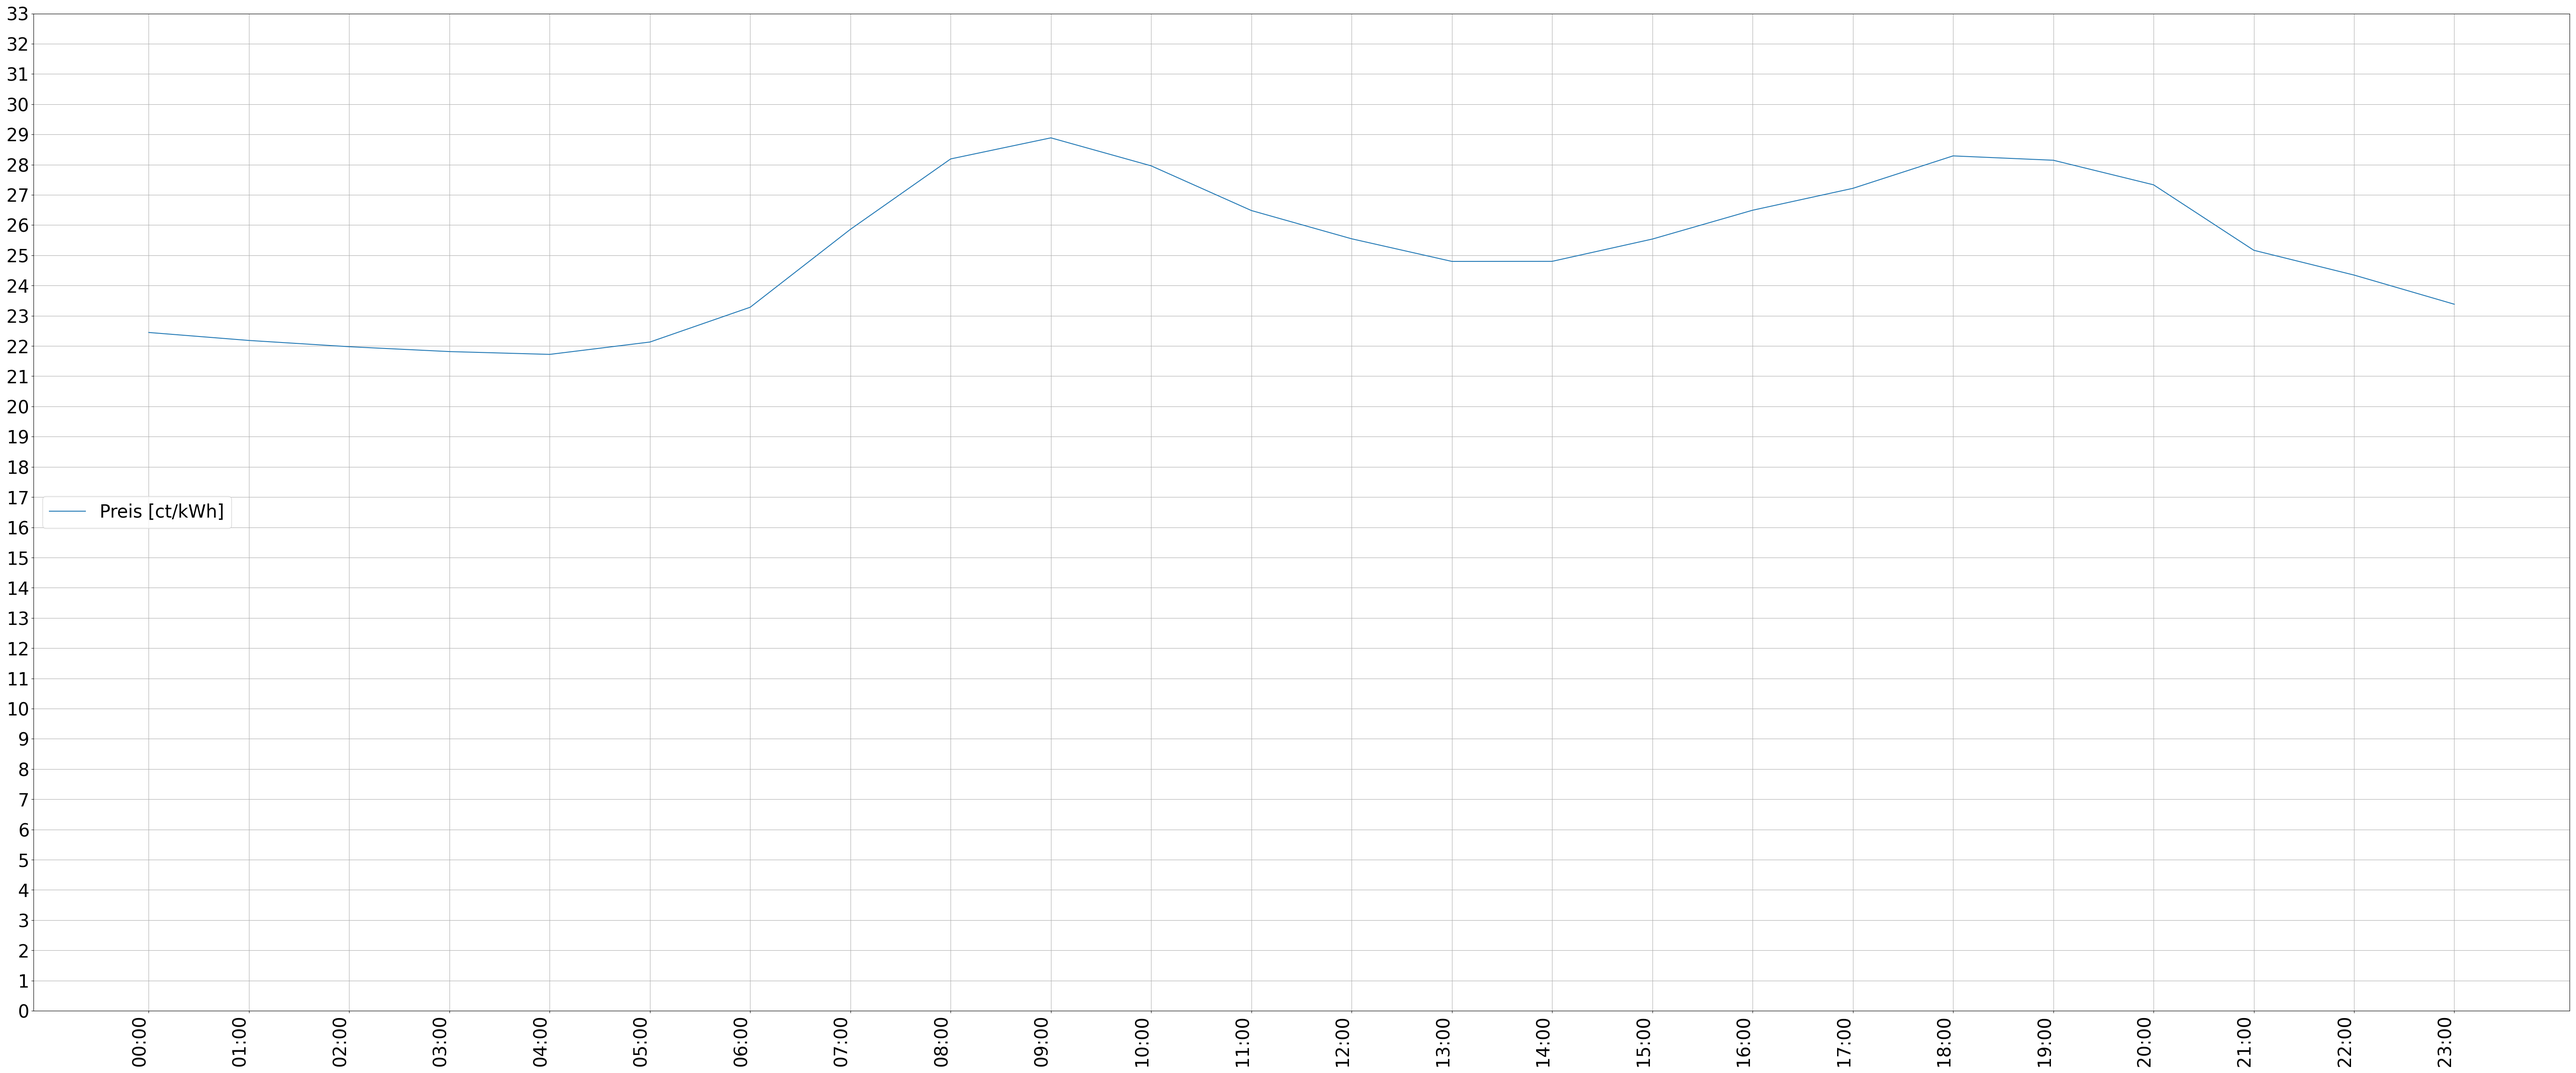
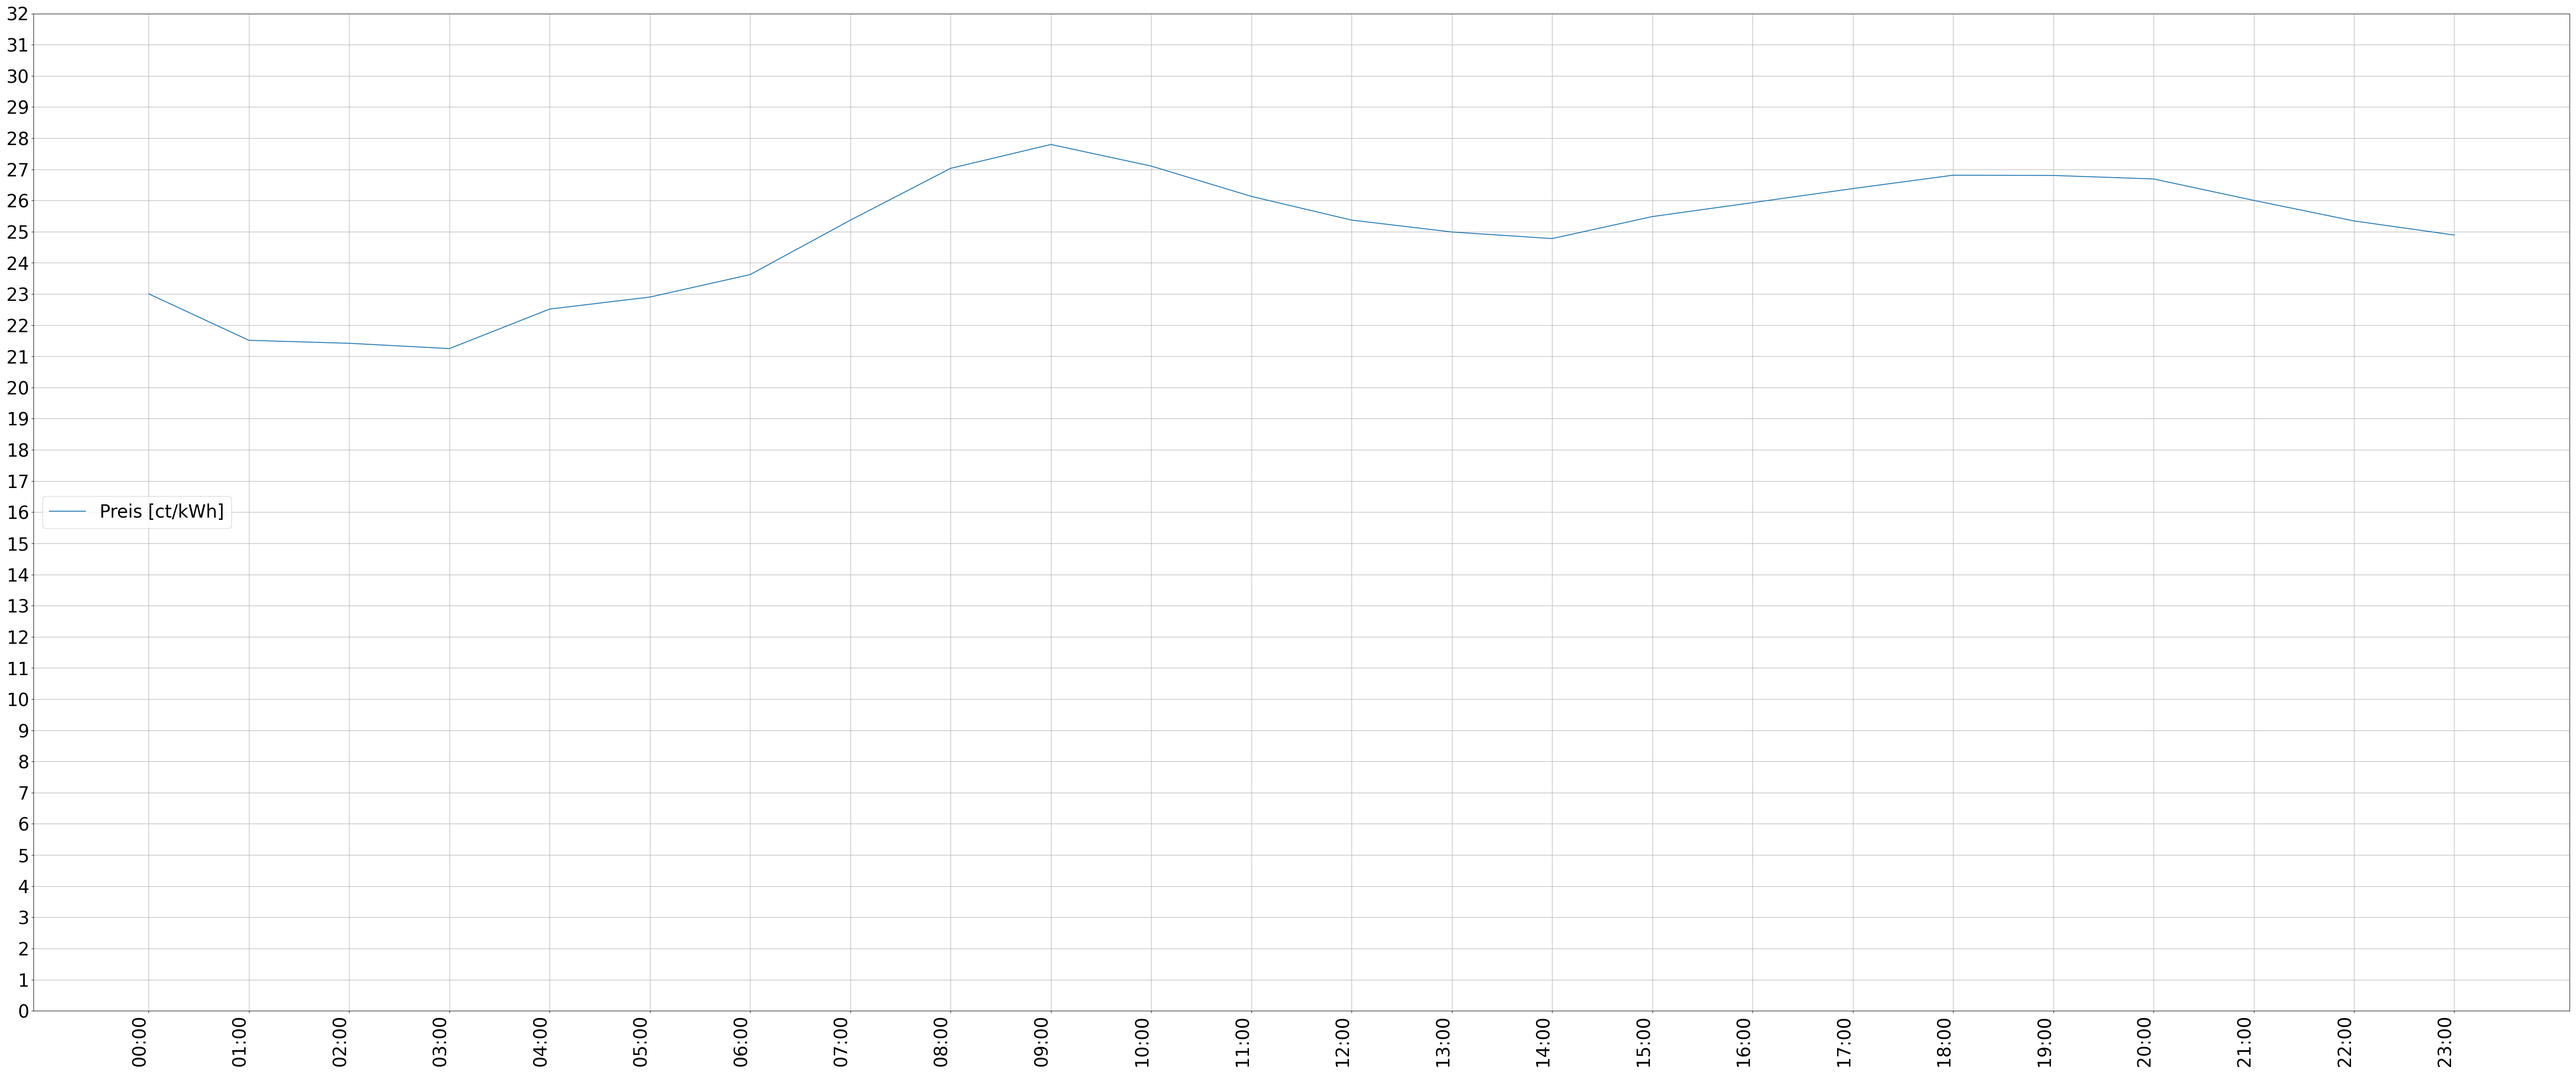
finished TODO

diff --git a/website.py b/website.py
@@ -10,7 +10,6 @@ import tomli
 
 from flask import Flask, render_template, request, send_from_directory
 
-import classes
 import functions as fc
 
 app = Flask(__name__)
@@ -58,8 +57,9 @@ def analytics():
         if (time_now - time_write).seconds < (60 * 60) and (time_now - time_write).days <= 0:
             old_data = False
 
-            weather_time, power_data, energy_data, market_time, market_price = fc.unpack_data(data)
-            # TODO: fixen
+            weather_time, radiation_data, power_data, market_time, market_price = fc.unpack_data(data)
+            energy = fc.calc_energy(power_data, kwh=False)
+
     if old_data:
         toml_file_path = 'config/config_test.toml'
         print("a")
@@ -71,9 +71,9 @@ def analytics():
         market_consts = config_data["market"]
 
         weather, market, sun, pv = fc.init_classes(coordinates["latitude"], coordinates["longitude"],
-                                                pv_consts["module_efficiency"], pv_consts["area"],
-                                                pv_consts["tilt_angle"], pv_consts["exposure_angle"],
-                                                pv_consts["mounting_type"], market_consts["consumer_price"])
+                                                   pv_consts["module_efficiency"], pv_consts["area"],
+                                                   pv_consts["tilt_angle"], pv_consts["exposure_angle"],
+                                                   pv_consts["mounting_type"], market_consts["consumer_price"])
         today = list(weather.data.keys())[0]
         weather_date = weather.data[today]
 
@@ -83,21 +83,19 @@ def analytics():
         for t in weather_date.keys():
             if t != "daily":
                 weather_time.append(t)
-                time_float: float = int(t[:2]) + int(t[3:]) / 100
+                time_float = float(t[:2]) + float(t[3:]) / 100
                 azimuth: float = sun.calc_azimuth(time_float)
                 elevation: float = sun.calc_solar_elevation(time_float)
                 incidence = pv.calc_incidence_angle(elevation, azimuth)
                 radiation = weather_date[t]["direct_radiation"]
                 radiation_dni = weather_date[t]["dni_radiation"]
-                print(radiation_dni)
                 radiation_data.append(radiation)
                 radiation_data_dni.append(radiation_dni)
+                energy_dni = pv.calc_power_with_dni(radiation_dni, incidence, weather_date[t]["temp"])
 
-                # eff = pv.calc_temp_dependency(weather_date[t]["temp"], radiation)
+                power_data.append(energy_dni)
 
-                power_data.append(pv.calc_power_with_dni(radiation_dni, incidence, weather_date[t]["temp"]))
-                # power_data.append(pv.calc_power(radiation, incidence, elevation, eff))
-
+        print(power_data)
         energy = fc.calc_energy(power_data, kwh=False)
 
         for t in market.data:
@@ -105,13 +103,10 @@ def analytics():
             market_price.append(t["consumerprice"])
 
         fc.write_data_to_file(None, None, None, None, time=weather_time, radiation_dni=radiation_data_dni,
-                           power=power_data, market_price=market_price)
+                              power=power_data, market_price=market_price)
 
-        for _ in power_data:
-            energy_data.append(energy)
-
-    print(len(weather_time))
-    print(len(power_data))
+    for _ in power_data:
+        energy_data.append(energy)
 
     plt.clf()
     plt.figure(figsize=(60, 25))

diff --git a/functions.py b/functions.py
@@ -38,6 +38,7 @@ def init_classes(latitude: float, longitude: float, module_efficiency: float, mo
                                             mounting_type)
     return weather, market, sun, pv
 
+
 def freeze_all(func):
     @wraps(func)
     def wrapped(*args, **kwargs):
@@ -160,6 +161,7 @@ def read_data_from_file(file_path: str) -> dict:
     with open(file_path, 'rb') as f:
         data = tomli.load(f)
     return data
+
 
 def get_coord(street: str, nr: str, city: str, postalcode: int, country: str) -> (str, str):
     # https://nominatim.org/release-docs/develop/api/Search/
@@ -324,7 +326,7 @@ def unpack_data(data: dict) -> (list, list, list, list):
         radiation_key = "radiation"
 
     for t in data.keys():
-        print(t)
+
         if t != "write_time":
             weather_time.append(t)
             radiation_data.append(data[t][radiation_key])
